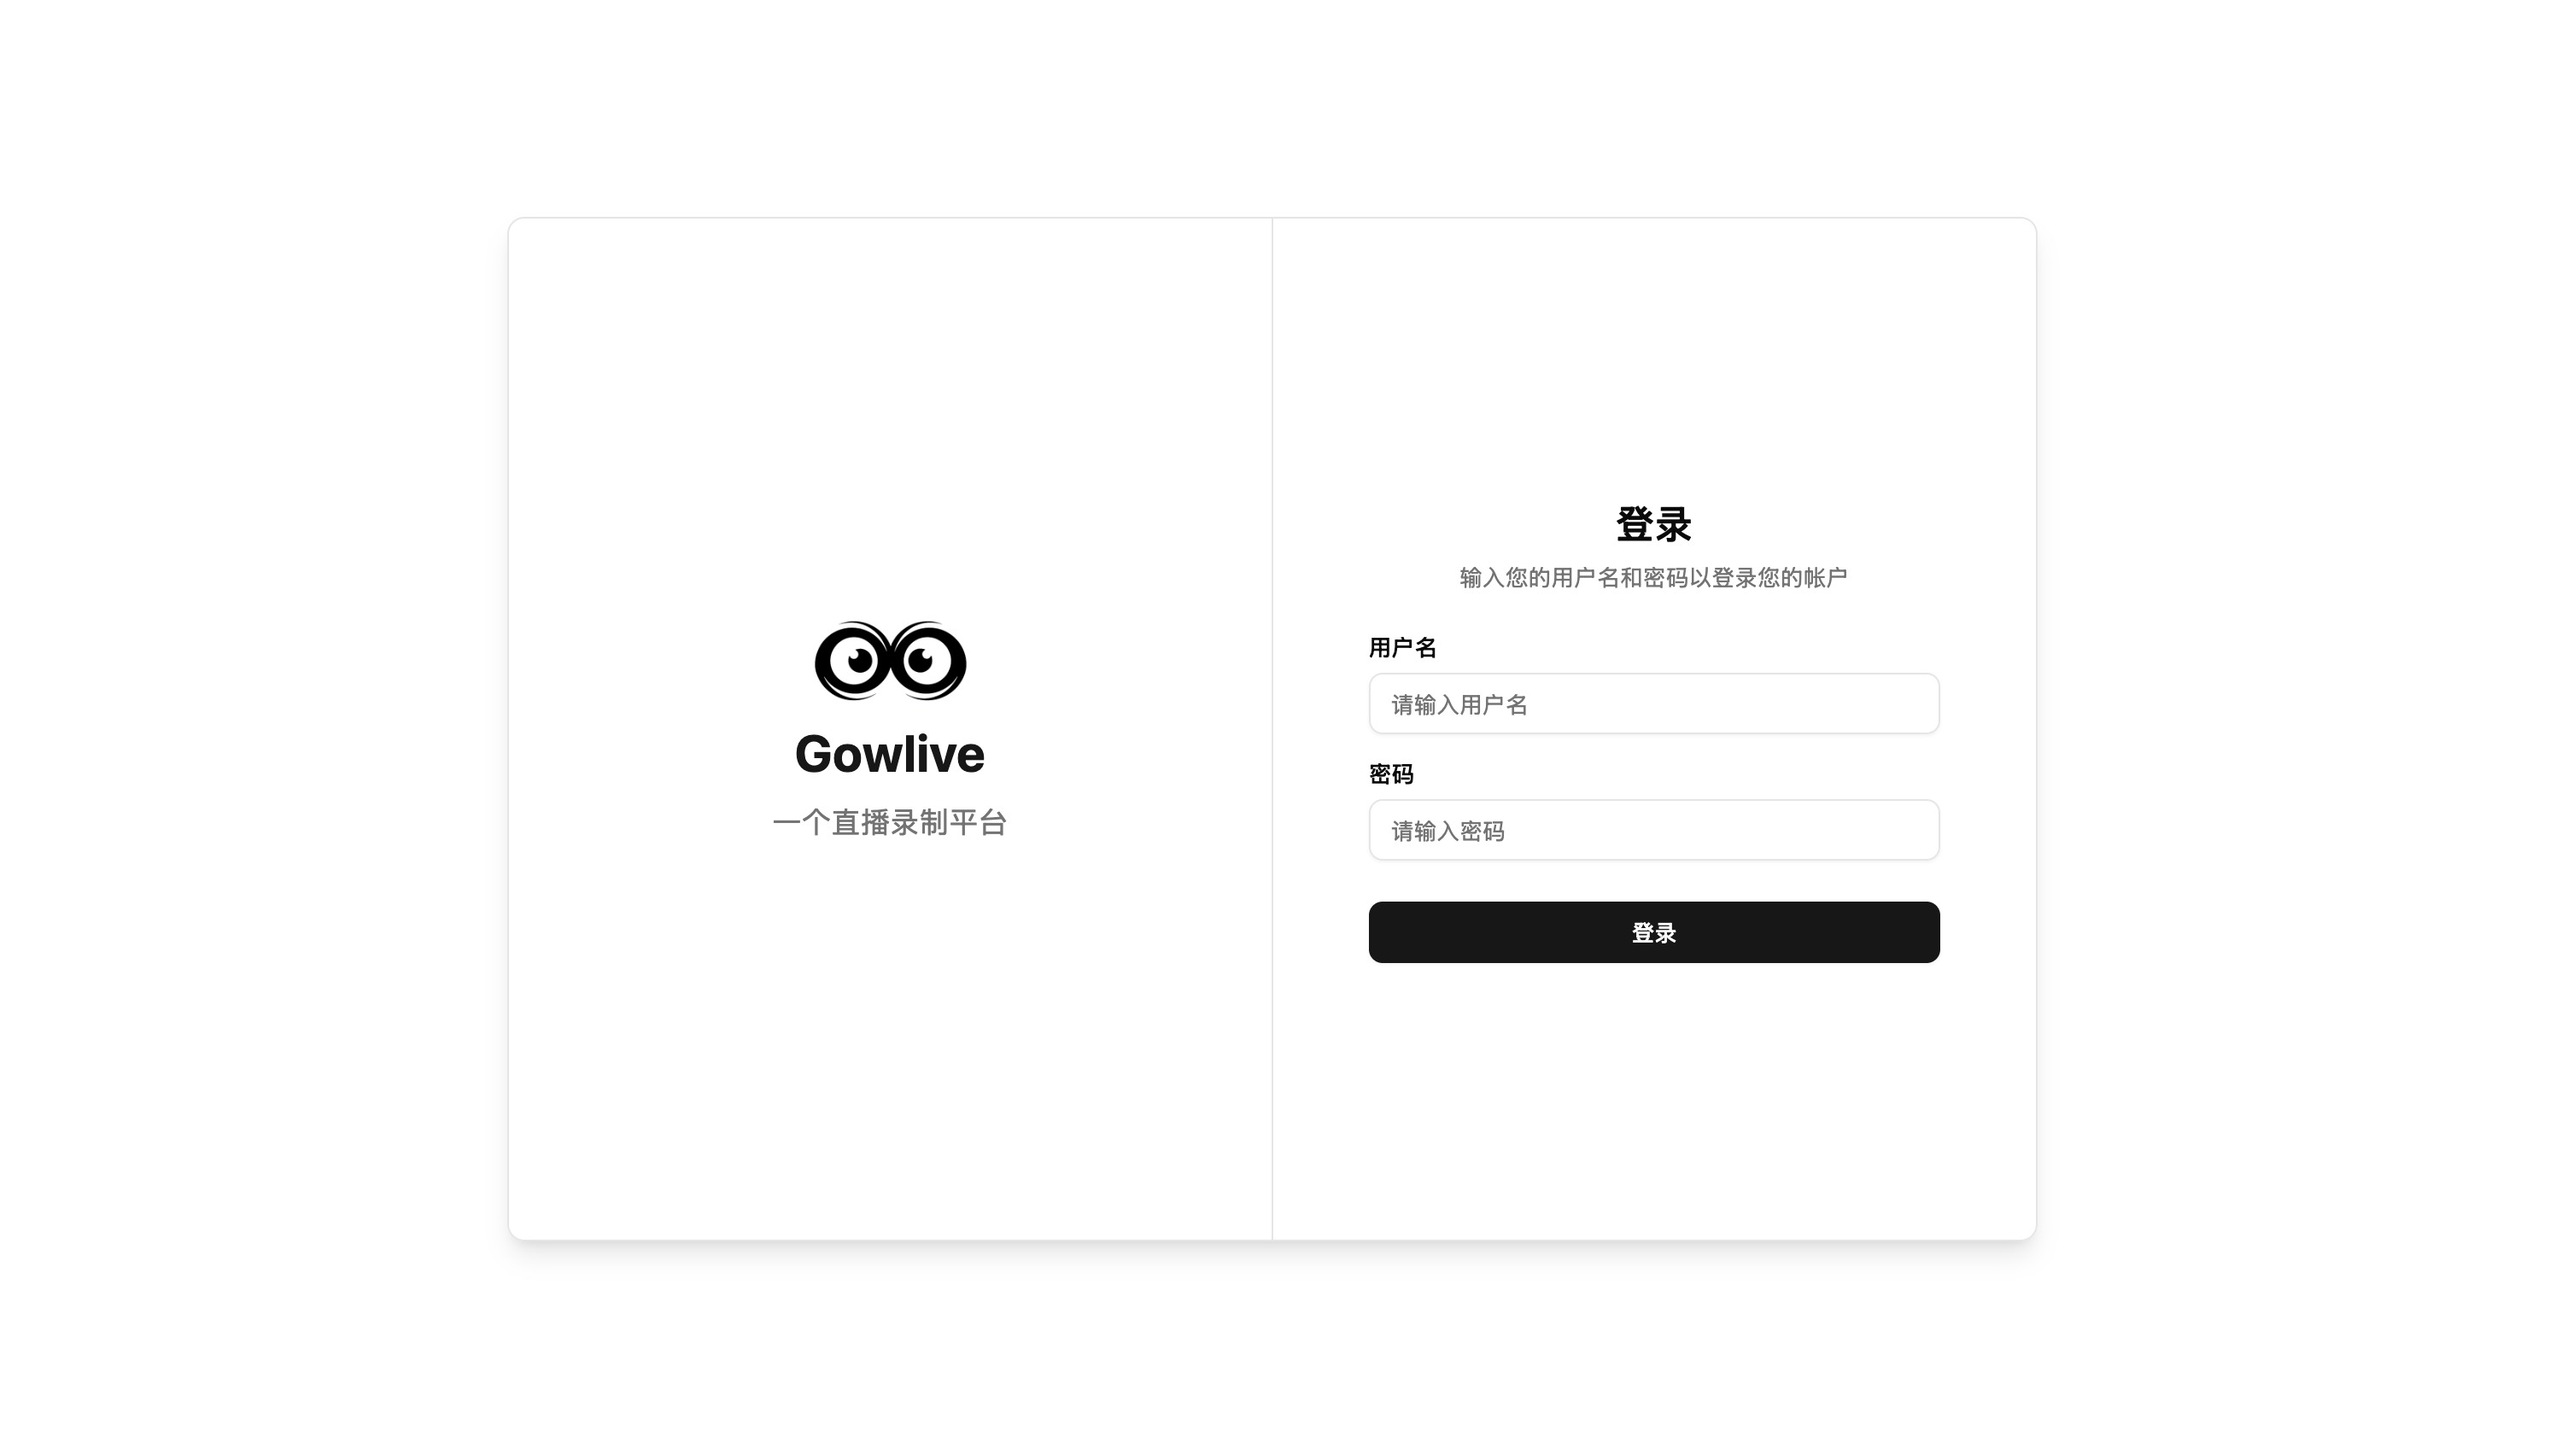
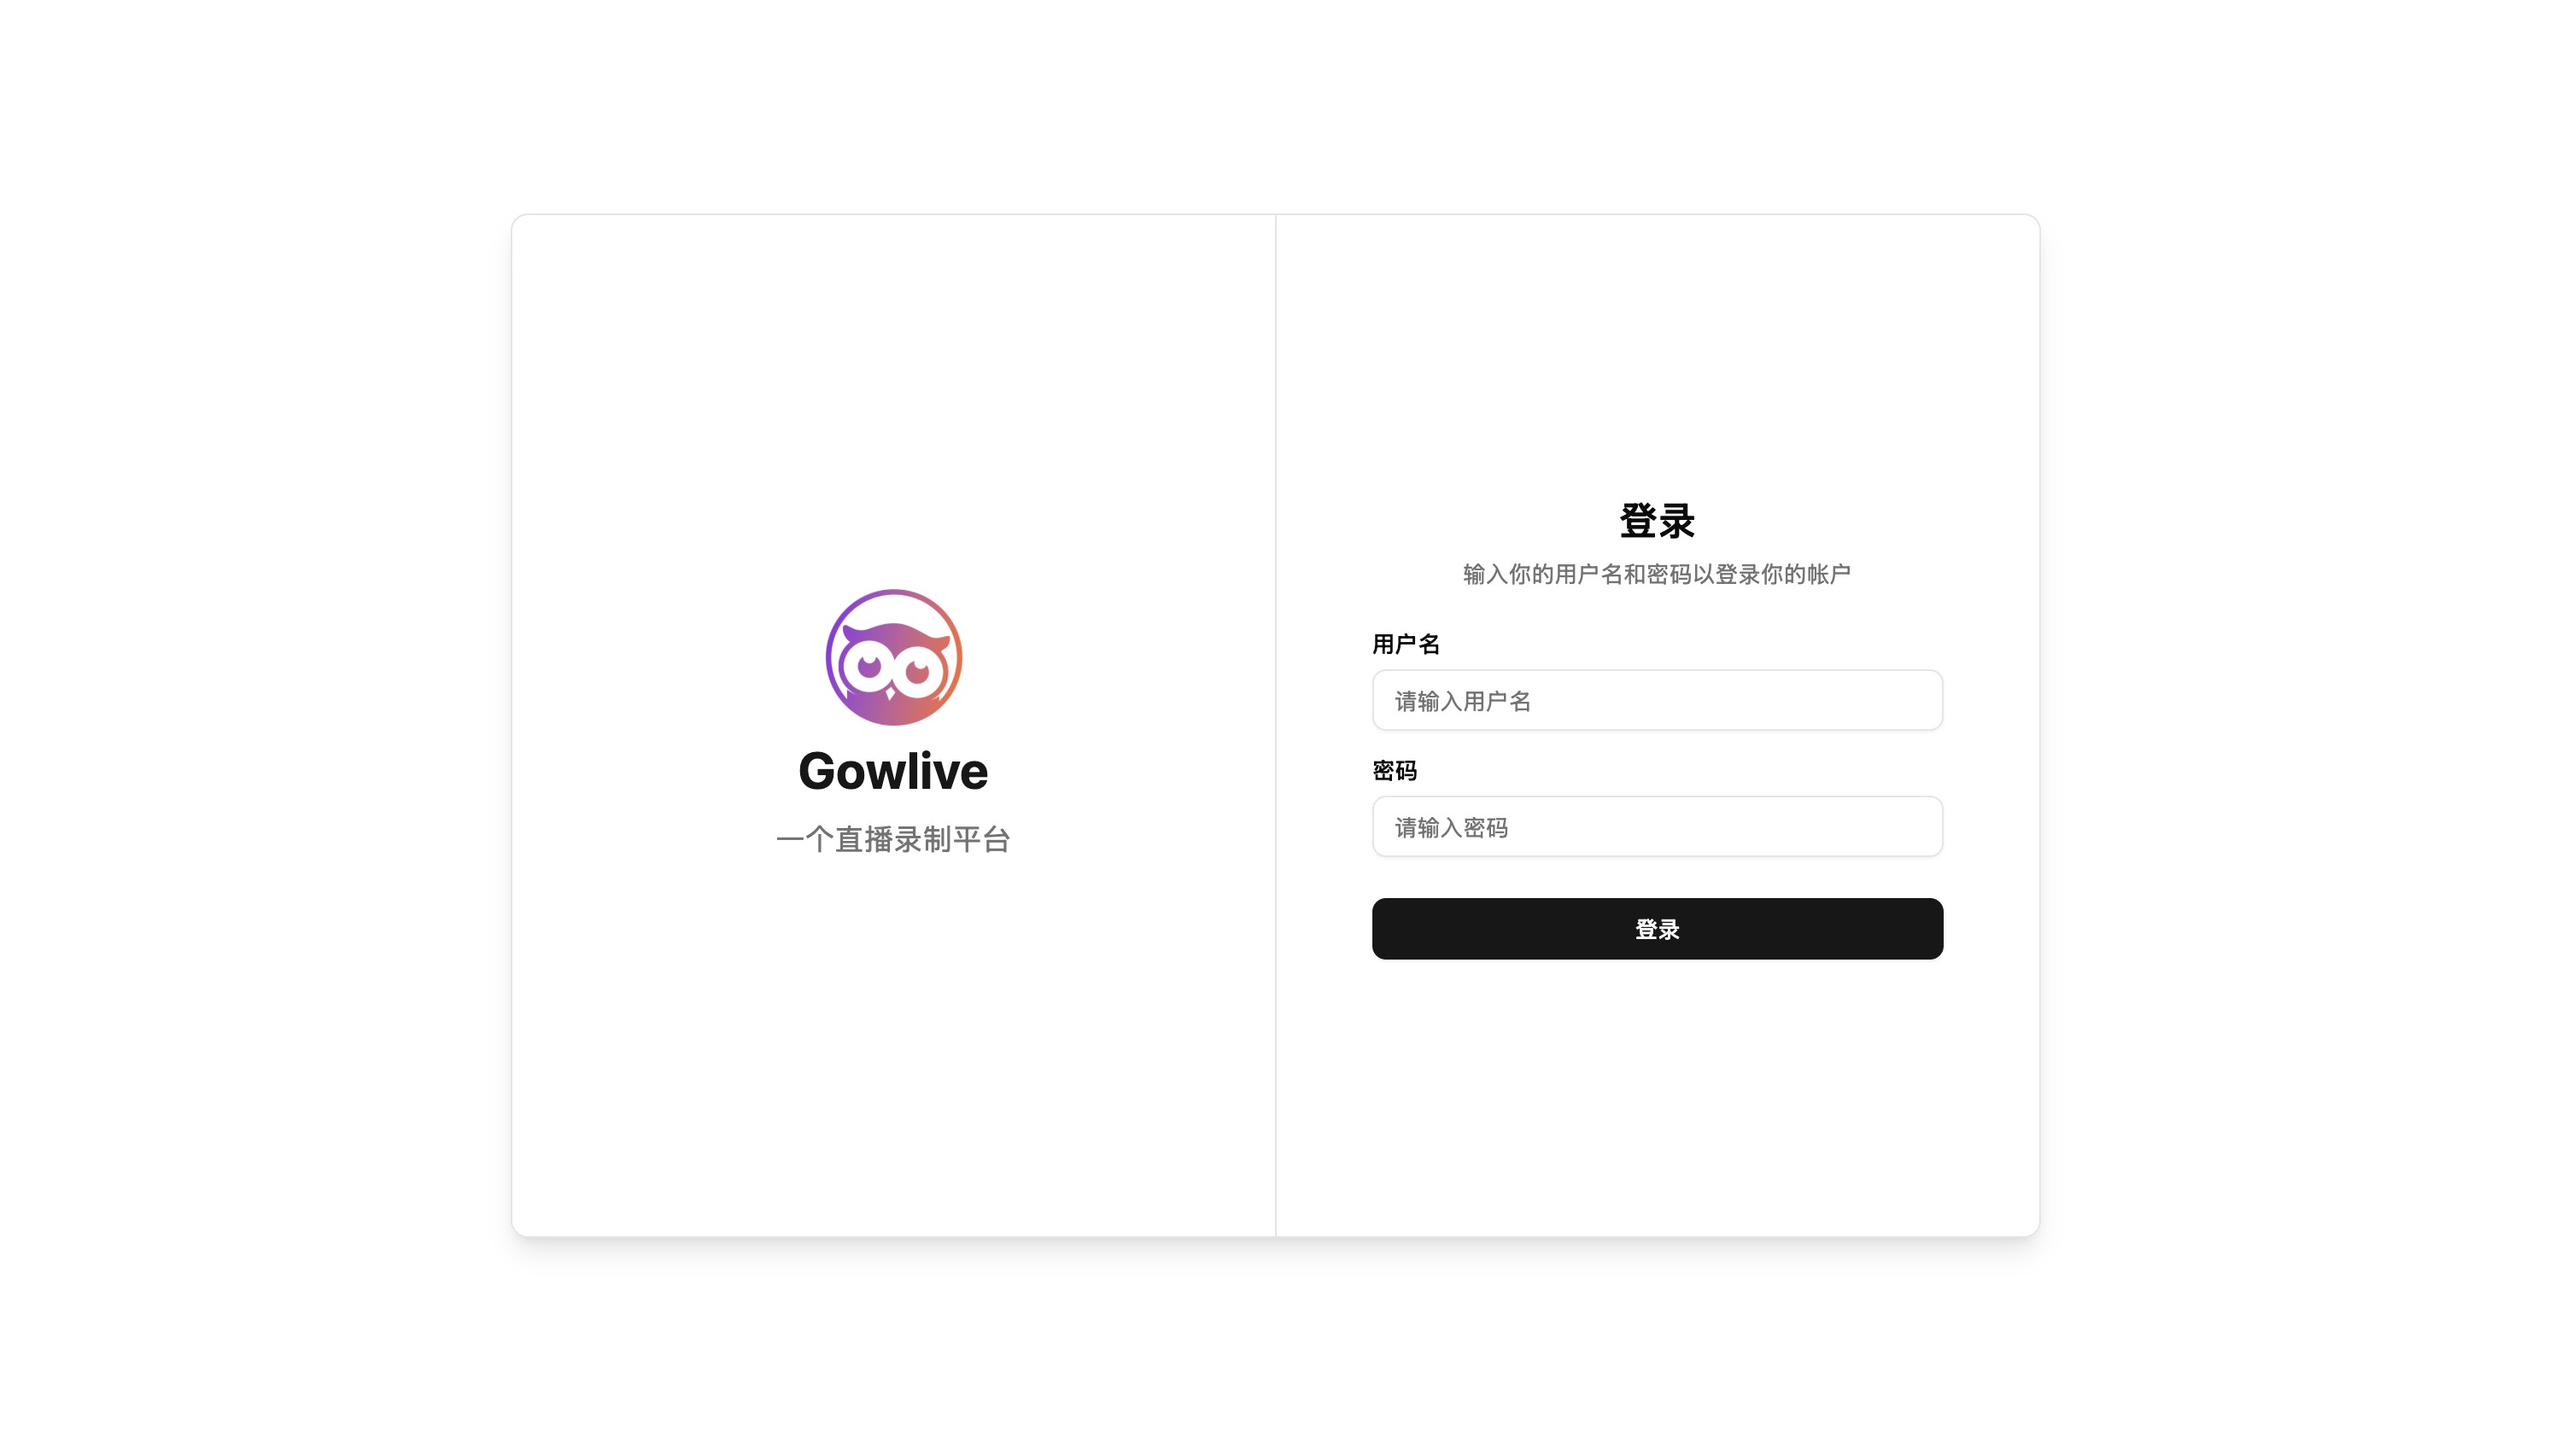
feat: logo更新

diff --git a/web/src/views/index.vue b/web/src/views/index.vue
@@ -4,8 +4,10 @@
             <Sidebar>
                 <SidebarHeader class="h-18 p-1 border-b items-center">
                     <div class="flex items-center p-4">
-                        <img src="/logo.png" alt="logo" class="h-6 w-12" />
-                        <h1 class="text-xl font-semibold">Gowlive</h1>
+                        <img src="/logo.png" alt="logo" class="h-6 w-6 mr-1" />
+                        <h1
+                            class="text-xl font-semibold bg-clip-text text-transparent bg-linear-to-br from-[#8E2DE2] from-10% via-45% to-[#FF6A00] to-90%">
+                            Gowlive</h1>
                     </div>
                 </SidebarHeader>
                 <SidebarContent class="grow p-2">

diff --git a/web/src/views/login.vue b/web/src/views/login.vue
@@ -32,7 +32,7 @@ async function handleLogin() {
     <div class="flex items-center justify-center h-screen bg-background">
         <div class="flex w-full max-w-4xl h-[600px] rounded-lg border shadow-lg">
             <div class="w-1/2 flex flex-col items-center justify-center p-8 text-center">
-                <img src="/logo.png" alt="logo" class="h-14 w-28 mb-2" />
+                <img src="/logo.png" alt="logo" class="h-20 w-20 mb-2" />
                 <h2 class="text-3xl font-bold text-primary">Gowlive</h2>
                 <p class="text-lg text-muted-foreground mt-2">一个直播录制平台</p>
             </div>

diff --git a/README.md b/README.md
@@ -1,5 +1,5 @@
 <div align="center">
-  <img src="resources/assets/logo.png" alt="Gowlive Logo" width="120"/>
+  <img src="resources/assets/logo.png" alt="Gowlive Logo" width="80"/>
   <h1>Gowlive</h1>
   <p>
     <strong>一个基于 GoFrame 和 Vue3 构建的直播录制平台</strong>
